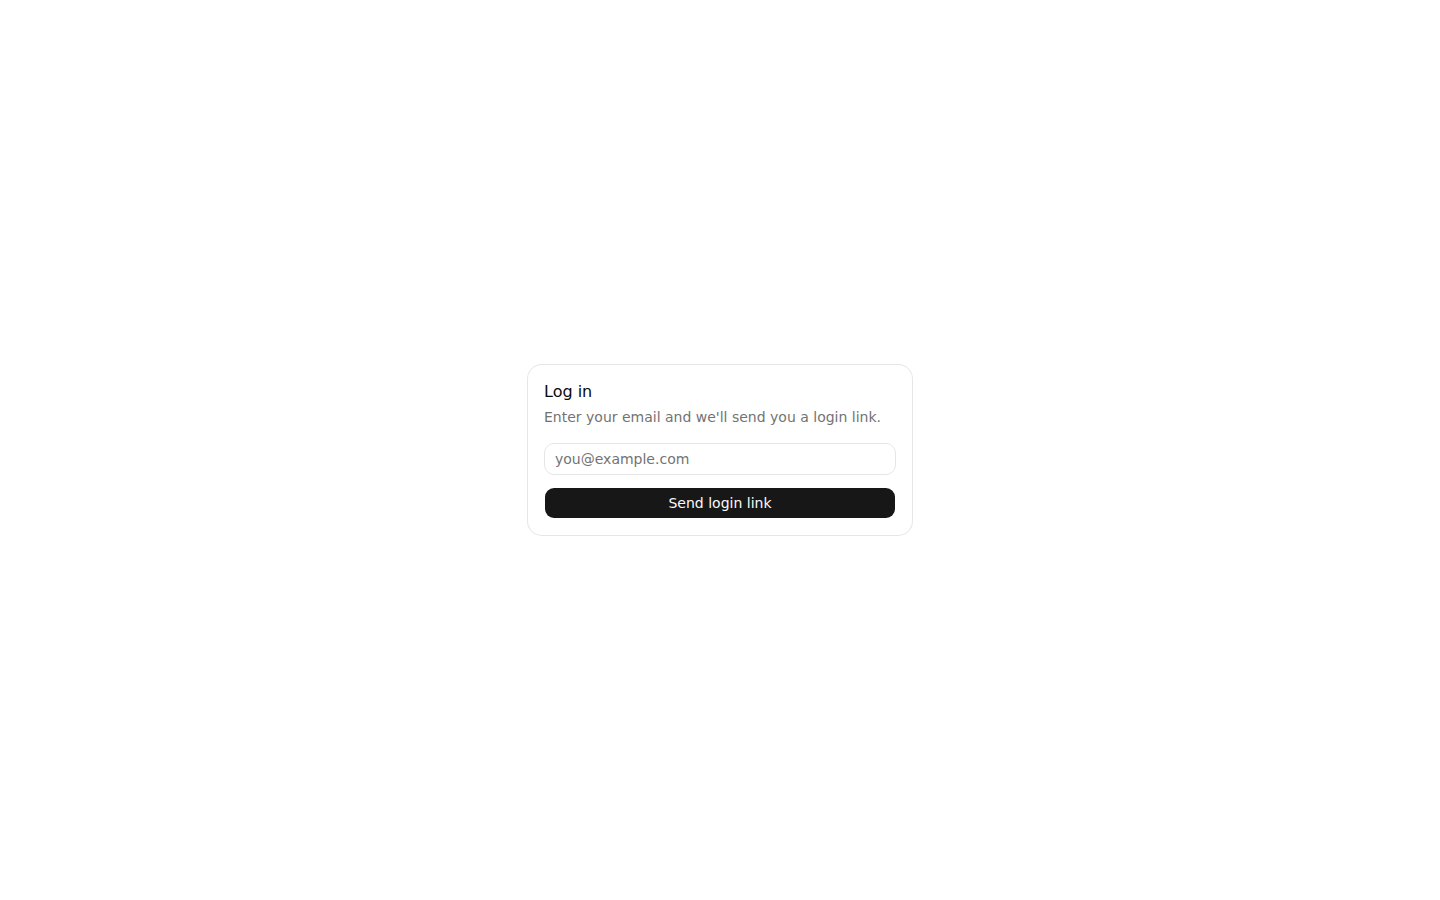
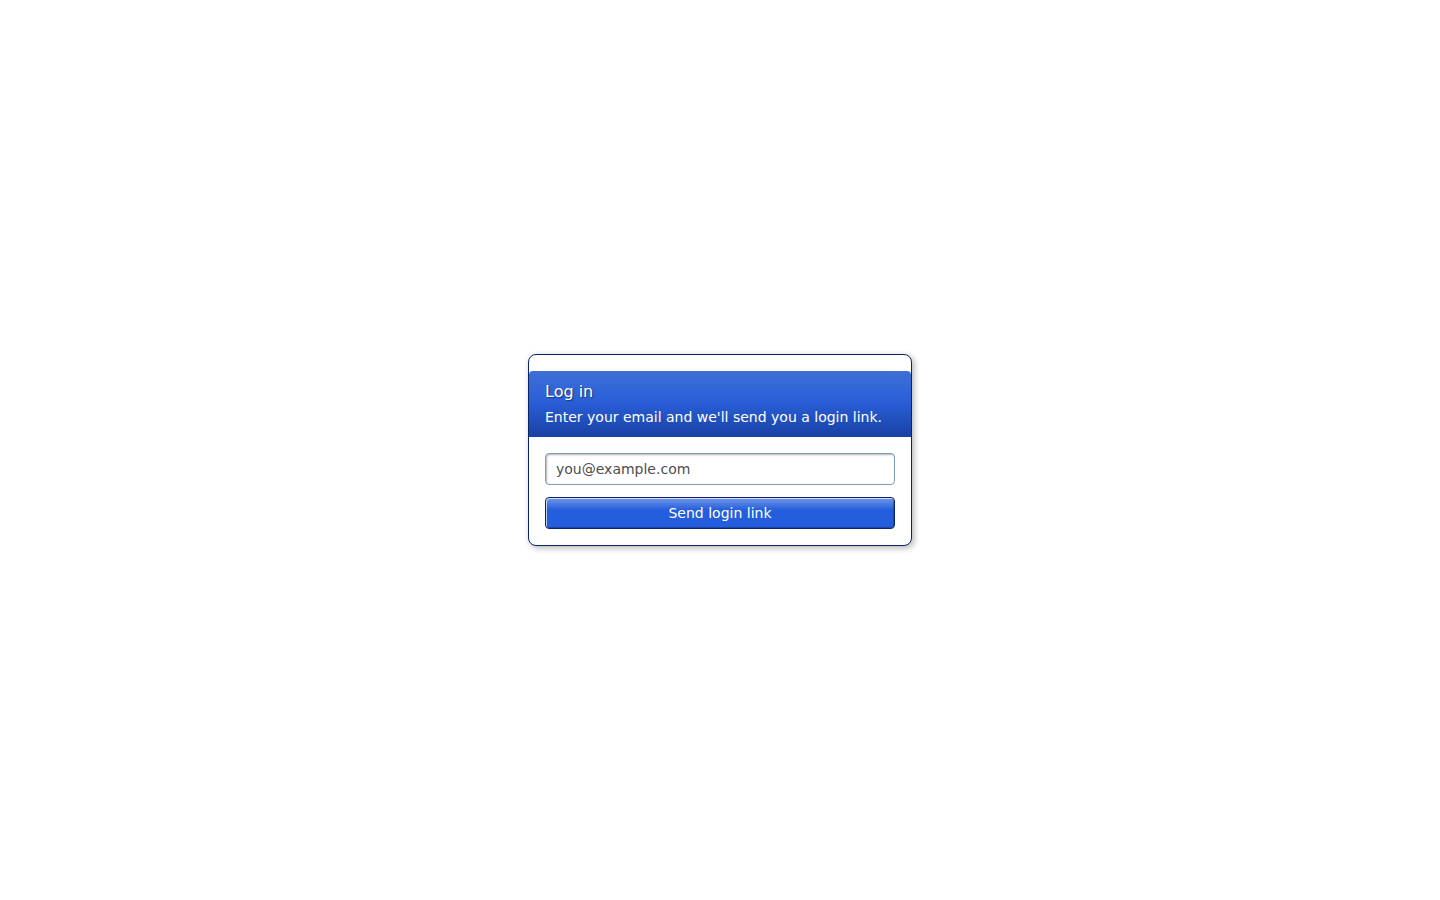
Add retro-theme screenshots for every Family Pool page
Only login and the cost-split pool had retro captures, and the
login one was a broken duplicate of the modern screenshot. Log
into the real app (seeded locally) and toggle Retro on every page
instead of reusing the mismatched /mockups sandbox data, adding the
create-pool dialog as a bonus. Gallery grows from 14 to 20 entries,
modern/retro paired throughout.

Changed region(s): [[0.3438, 0.4044, 0.6562, 0.6222]]

diff --git a/src/routes/portfolio.lazy.tsx b/src/routes/portfolio.lazy.tsx
@@ -33,19 +33,25 @@ const PROJECT_DOCUMENTATION: OngoingProjectDocumentation = {
   ],
   'family-pool': [
     { id: 1, title: 'Login', url: '/images/family-pool/login.png', description: 'Passwordless, magic-link-only auth' },
-    { id: 2, title: 'Rooms Dashboard', url: '/images/family-pool/rooms-list.png', description: "Rooms you're in, what you owe, and pending approvals" },
-    { id: 3, title: 'Room — Pools Tab', url: '/images/family-pool/room-pools-tab.png', description: 'The pools a family shares inside a room' },
-    { id: 4, title: 'Create Pool Dialog', url: '/images/family-pool/create-pool-dialog.png', description: 'Choose between a cost-split pool or a rotating arisan pot' },
-    { id: 5, title: 'Room — Members Tab', url: '/images/family-pool/room-members-tab.png', description: 'Manage who is in the room' },
-    { id: 6, title: 'Room — Settings Tab', url: '/images/family-pool/room-settings-tab.png', description: "The room's reusable invite link" },
-    { id: 7, title: 'Cost-Split Pool', url: '/images/family-pool/pool-cost-split.png', description: 'Balance and paid-through period computed live from an append-only ledger' },
-    { id: 8, title: 'Arisan Pool', url: '/images/family-pool/pool-arisan.png', description: 'Rotating savings pot — one random winner per round' },
-    { id: 9, title: 'Approval Inbox', url: '/images/family-pool/inbox.png', description: "Every room you own's pending receipt approvals in one place" },
-    { id: 10, title: 'Login — Modern Theme', url: '/images/family-pool/theme-login-modern.png', description: 'The default modern theme' },
-    { id: 11, title: 'Login — Retro Theme', url: '/images/family-pool/theme-login-retro.png', description: 'A full retro theme, pure CSS on shared component slots' },
-    { id: 12, title: 'Pool — Modern Theme', url: '/images/family-pool/theme-pool-modern.png', description: 'Pool page in the modern theme' },
-    { id: 13, title: 'Pool — Retro Theme', url: '/images/family-pool/theme-pool-retro.png', description: 'Pool page in the retro theme' },
-    { id: 14, title: 'Mobile View', url: '/images/family-pool/mobile-pool.png', description: 'Built mobile-first for uploading receipt photos' },
+    { id: 2, title: 'Login — Retro Theme', url: '/images/family-pool/theme-login-retro.png', description: 'A full retro theme, pure CSS on shared component slots' },
+    { id: 3, title: 'Rooms Dashboard', url: '/images/family-pool/rooms-list.png', description: "Rooms you're in, what you owe, and pending approvals" },
+    { id: 4, title: 'Rooms Dashboard — Retro', url: '/images/family-pool/rooms-list-retro.png', description: 'Rooms dashboard in the retro theme' },
+    { id: 5, title: 'Room — Pools Tab', url: '/images/family-pool/room-pools-tab.png', description: 'The pools a family shares inside a room' },
+    { id: 6, title: 'Room — Pools Tab — Retro', url: '/images/family-pool/room-pools-tab-retro.png', description: 'Pools tab in the retro theme' },
+    { id: 7, title: 'Create Pool Dialog', url: '/images/family-pool/create-pool-dialog.png', description: 'Choose between a cost-split pool or a rotating arisan pot' },
+    { id: 8, title: 'Create Pool Dialog — Retro', url: '/images/family-pool/create-pool-dialog-retro.png', description: 'Create-pool dialog in the retro theme' },
+    { id: 9, title: 'Room — Members Tab', url: '/images/family-pool/room-members-tab.png', description: 'Manage who is in the room' },
+    { id: 10, title: 'Room — Members Tab — Retro', url: '/images/family-pool/room-members-tab-retro.png', description: 'Members tab in the retro theme' },
+    { id: 11, title: 'Room — Settings Tab', url: '/images/family-pool/room-settings-tab.png', description: "The room's reusable invite link" },
+    { id: 12, title: 'Room — Settings Tab — Retro', url: '/images/family-pool/room-settings-tab-retro.png', description: 'Settings tab in the retro theme' },
+    { id: 13, title: 'Cost-Split Pool', url: '/images/family-pool/pool-cost-split.png', description: 'Balance and paid-through period computed live from an append-only ledger' },
+    { id: 14, title: 'Cost-Split Pool — Retro', url: '/images/family-pool/theme-pool-retro.png', description: 'Cost-split pool in the retro theme' },
+    { id: 15, title: 'Arisan Pool', url: '/images/family-pool/pool-arisan.png', description: 'Rotating savings pot — one random winner per round' },
+    { id: 16, title: 'Arisan Pool — Retro', url: '/images/family-pool/pool-arisan-retro.png', description: 'Arisan pool in the retro theme' },
+    { id: 17, title: 'Approval Inbox', url: '/images/family-pool/inbox.png', description: "Every room you own's pending receipt approvals in one place" },
+    { id: 18, title: 'Approval Inbox — Retro', url: '/images/family-pool/inbox-retro.png', description: 'Approval inbox in the retro theme' },
+    { id: 19, title: 'Mobile View', url: '/images/family-pool/mobile-pool.png', description: 'Built mobile-first for uploading receipt photos' },
+    { id: 20, title: 'Mobile View — Retro', url: '/images/family-pool/mobile-pool-retro.png', description: 'Mobile view in the retro theme' },
   ],
   marketplace: [
     { id: 1, title: 'Homepage Design', url: 'https://images.unsplash.com/photo-1556742049-0cfed4f6a45d?w=400&h=400&fit=crop', description: 'Landing page with product showcase' },
